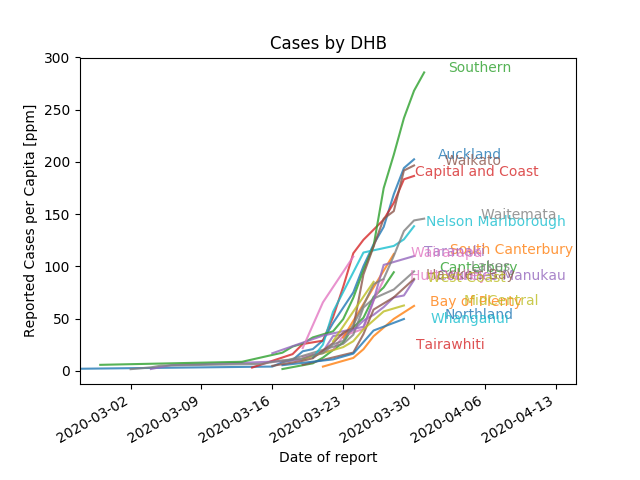
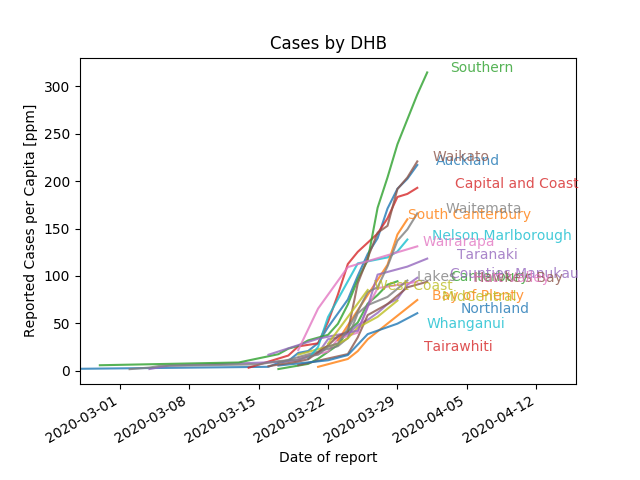
Data update 2020-04-01

diff --git a/NZModel/nz_data.py b/NZModel/nz_data.py
@@ -16,9 +16,11 @@ register_matplotlib_converters()
 #date_column = "Report Date"
 #date_column_sus = "ReportDate"
 #header=3
-filename = "covidcase_list_31_mar_2020_for_web_-_updated.xlsx"
+#filename = "covidcase_list_31_mar_2020_for_web_-_updated.xlsx"
 date_column = date_column_sus = "Date of report"
 header=3
+
+filename = "covidcase_list_1_apr_2020.xlsx"
 
 
 data = pd.read_excel(filename, header=header)
